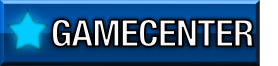
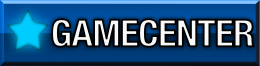
gdfg

diff --git a/Planet Orbiting iOS Game/HighScoresLayer.m b/Planet Orbiting iOS Game/HighScoresLayer.m
@@ -139,7 +139,7 @@
         CCMenuItem *gameCenter = [CCMenuItemImage
                                   itemWithNormalImage:@"gamecenter.png" selectedImage:@"gamecenterpressed.png"
                                   target:self selector:@selector(gameCenterButtonPressed)];
-        gameCenter.position = ccp(480-67, 300.5);
+        gameCenter.position = ccp(480-70, 300.5);
         //quit.scale = 1.7;
         
         CCMenu* menu = [CCMenu menuWithItems:quit, gameCenter, nil];
